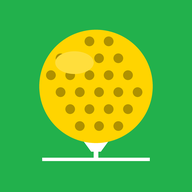
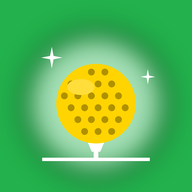
Add files via upload

diff --git a/sw.js b/sw.js
@@ -2,7 +2,7 @@
    - 저장소 이름에 앱 버전을 넣는다. 버전을 올리면 옛 저장분은 지워지고 새 파일을 받는다.
    - 앱 본체(index.html)는 인터넷이 되면 새것을 먼저 받고, 안 되면 저장분을 쓴다.
    - LocalStorage(설정·수정 카드·즐겨찾기)는 이 파일이 건드리지 않으므로 업데이트해도 유지된다. */
-const CACHE_NAME = "sk-golf-caddie-v1.2-icon2";
+const CACHE_NAME = "sk-golf-caddie-v1.2-icon4";
 const FILES = [
   "./",
   "./index.html",
